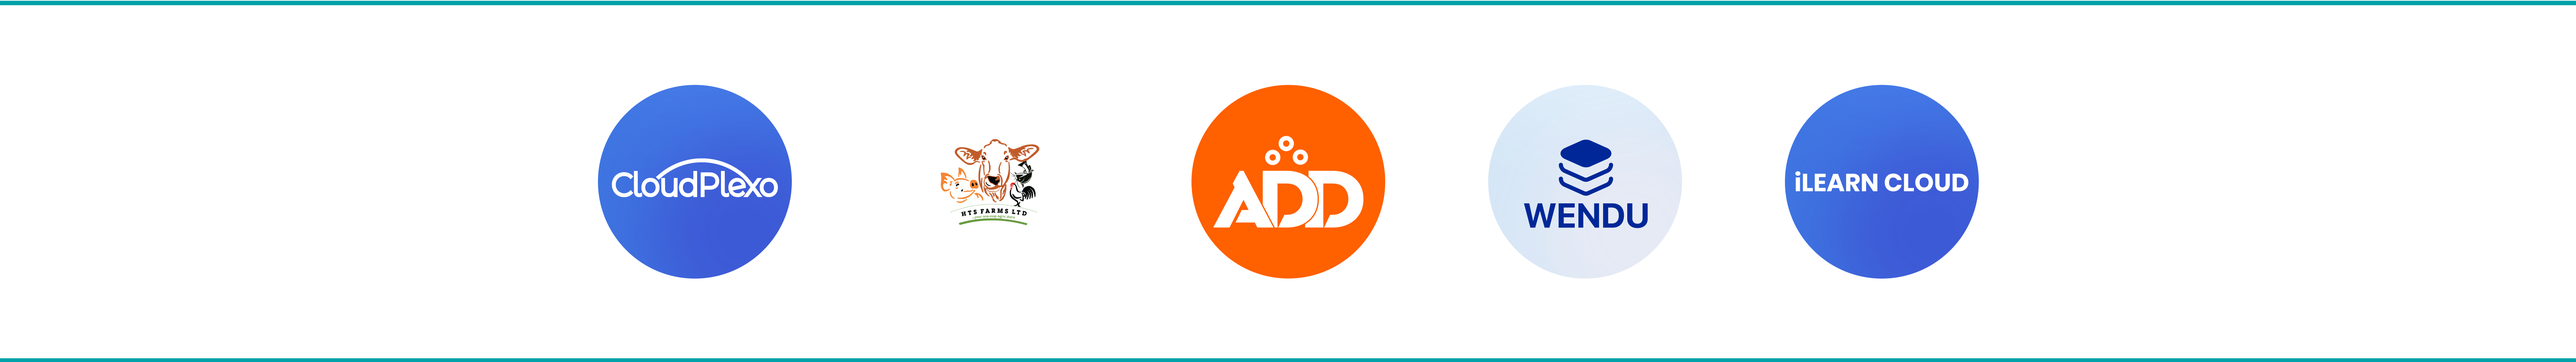
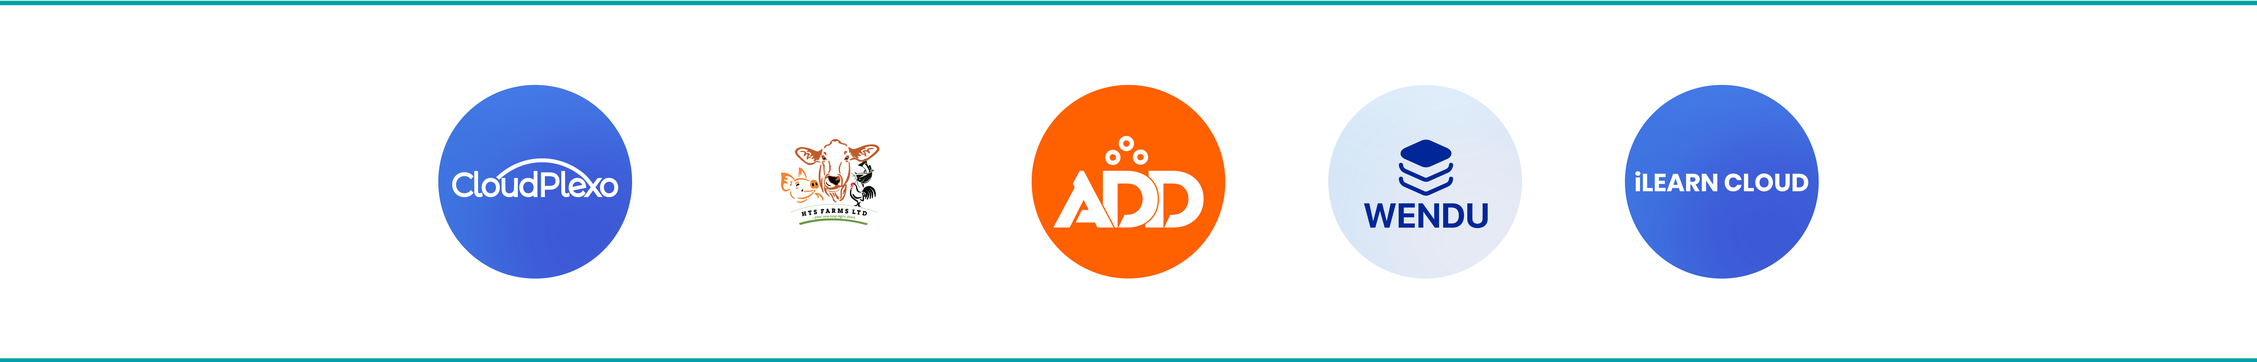
Add files via upload

diff --git a/styles.css b/styles.css
@@ -222,7 +222,7 @@ border: none;}
 
 
        .wok{
-        width: 1727.5px;
+        width: auto;
         height: 240px;
         margin-top: 50px;
        }
@@ -378,8 +378,9 @@ font-size: 24px;}
         height: 288.41px;
     }
     .wok{
-        width: 700px;
-        height: 100px;
+        width: 480px;
+        height: 80px;
+       
     }
 
     .hi{
@@ -424,7 +425,5 @@ font-size: 24px;}
     .vertical2{
         height: 2900px;
     }
-    .midline{
-        width: max-content;
-    }
+ 
 }
